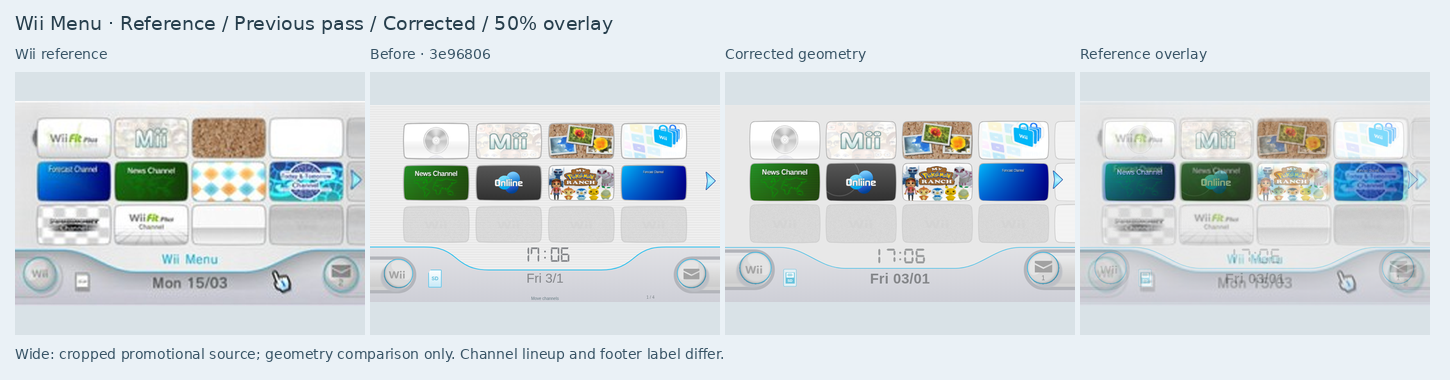
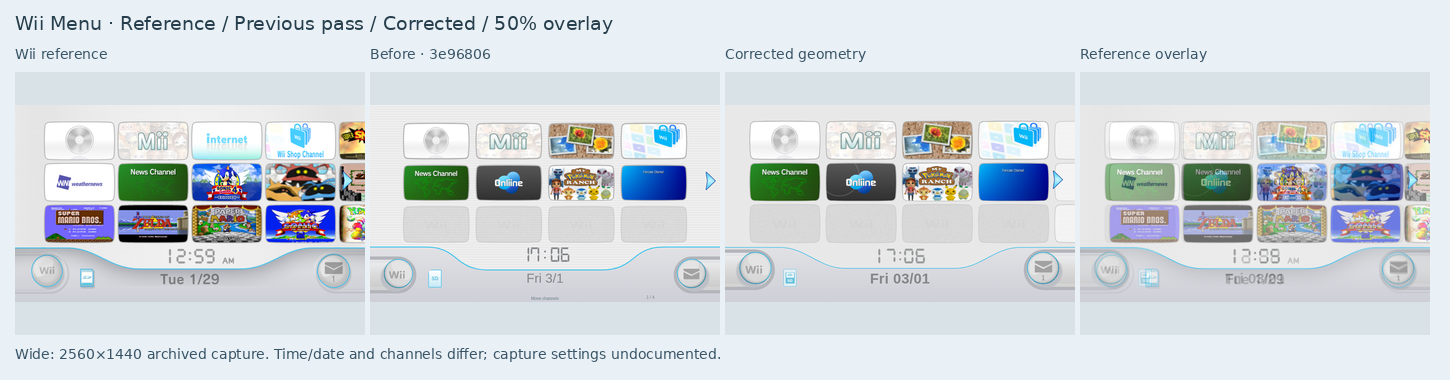
Use archived 16:9 Wii Menu screenshot for widescreen overlays

Changed region(s): [[0.0, 0.2605, 0.2793, 0.8105], [0.7448, 0.2895, 0.9931, 0.7816], [0.031, 0.8974, 0.4966, 0.9553]]

diff --git a/docs/menu-fidelity/index.html b/docs/menu-fidelity/index.html
@@ -1,7 +1,7 @@
 <!doctype html><html lang="en"><head><meta charset="utf-8"><meta name="viewport" content="width=device-width,initial-scale=1"><title>Wii menu reference alignment</title><style>
 *{box-sizing:border-box}body{margin:0;padding:24px;background:#eaf1f6;color:#243b4a;font:16px system-ui}h1{font-size:26px;margin:0 0 12px}p{line-height:1.5}header,section{max-width:1500px;margin:0 auto 20px;background:white;padding:20px;border-radius:12px}.controls{display:flex;flex-wrap:wrap;gap:18px;align-items:center}label{display:flex;gap:8px;align-items:center}select,input,button{font:inherit}select,button{padding:7px;border:1px solid #adc4d2;border-radius:5px}select{max-width:330px}.columns{display:grid;grid-template-columns:repeat(3,1fr);gap:14px}figure{margin:0}figcaption{font-weight:600;padding:8px 0}.frame{position:relative;background:#d9e2e7;aspect-ratio:4/3;overflow:hidden;display:grid;place-items:center}.frame img{display:block;width:100%;height:100%;object-fit:contain}.overlay{max-width:1050px;margin:auto}.overlay .frame img{position:absolute;inset:0}.sourceDetails{font-size:14px;color:#526b79}a{color:#086596}.note{padding:12px;background:#edf6fb;border-left:4px solid #38acd4}#result{font-weight:600}@media(max-width:800px){body{padding:8px}.columns{grid-template-columns:1fr}section,header{padding:14px}}
-</style></head><body><header><h1>Wii menu — corrected geometry</h1><p>Wii reference, preserved 3e96806 menu and corrected implementation. Compare both display modes at native 480-line sizes and 720-line captures. Sources retain their original aspect ratios.</p><div class="controls"><label>Interface <select id="interface"></select></label><label>Display <select id="mode"><option>4:3</option><option>16:9</option></select></label><label>Capture <select id="size"><option value="720">720 lines</option><option value="480">Native 480 lines</option></select></label><button id="previous">Previous</button><button id="next">Next</button></div></header><section><h2 id="title"></h2><p id="note" class="note"></p><div class="columns"><figure><figcaption>Wii reference</figcaption><div class="frame"><img id="reference" alt="Original Wii interface reference"></div></figure><figure><figcaption id="before-caption">Previous pass</figcaption><div class="frame"><img id="before" alt="Preserved previous implementation"></div></figure><figure><figcaption id="after-caption">Refined sizing</figcaption><div class="frame"><img id="after" alt="Refined implementation"></div></figure></div><p id="source" class="sourceDetails"></p></section><section class="overlay"><div class="controls"><label>Overlay <select id="layer"><option value="after">Refined vs Wii reference</option><option value="before">Previous vs Wii reference</option><option value="progress">Refined vs previous</option></select></label><label>Opacity <input id="alpha" type="range" min="0" max="100" value="50"><output id="percent">50%</output></label><label><input id="difference" type="checkbox">Difference</label></div><figure><figcaption>Aligned whole-frame overlay · preserved aspect ratios</figcaption><div class="frame"><img id="overlay-source" alt="Overlay base"><img id="overlay-image" alt="Overlay comparison"></div></figure></section><section><p id="result"></p><p>The previous pass is preserved at revision 3e96806. Before and corrected images are separate captures at the same size. The 4:3 clock/date and native icon animation phases are aligned for comparison; this does not change live playback.</p><p>The 4:3 reference is a 640×476 capture with a small crop. The widescreen source is a low-resolution promotional image. Channel lineups and date-font metrics differ; this is not an overall pixel accuracy score.</p><a href="../menu-fidelity.md">Menu correction and measured alignment report</a> · <a href="../interface-sizing/">Previous sizing pass</a> · <a href="../interface-audit/">Original audit</a></section><script>
[1 lines of base64/hex data omitted]
+</style></head><body><header><h1>Wii menu — corrected geometry</h1><p>Wii reference, preserved 3e96806 menu and corrected implementation. Compare both display modes at native 480-line sizes and 720-line captures. Sources retain their original aspect ratios.</p><div class="controls"><label>Interface <select id="interface"></select></label><label>Display <select id="mode"><option>4:3</option><option>16:9</option></select></label><label>Capture <select id="size"><option value="720">720 lines</option><option value="480">Native 480 lines</option></select></label><button id="previous">Previous</button><button id="next">Next</button></div></header><section><h2 id="title"></h2><p id="note" class="note"></p><div class="columns"><figure><figcaption>Wii reference</figcaption><div class="frame"><img id="reference" alt="Original Wii interface reference"></div></figure><figure><figcaption id="before-caption">Previous pass</figcaption><div class="frame"><img id="before" alt="Preserved previous implementation"></div></figure><figure><figcaption id="after-caption">Refined sizing</figcaption><div class="frame"><img id="after" alt="Refined implementation"></div></figure></div><p id="source" class="sourceDetails"></p></section><section class="overlay"><div class="controls"><label>Overlay <select id="layer"><option value="after">Refined vs Wii reference</option><option value="before">Previous vs Wii reference</option><option value="progress">Refined vs previous</option></select></label><label>Opacity <input id="alpha" type="range" min="0" max="100" value="50"><output id="percent">50%</output></label><label><input id="difference" type="checkbox">Difference</label></div><figure><figcaption>Aligned whole-frame overlay · preserved aspect ratios</figcaption><div class="frame"><img id="overlay-source" alt="Overlay base"><img id="overlay-image" alt="Overlay comparison"></div></figure></section><section><p id="result"></p><p>The previous pass is preserved at revision 3e96806. Before and corrected images are separate captures at the same size. The 4:3 clock/date and native icon animation phases are aligned for comparison; this does not change live playback.</p><p>The 4:3 reference is a 640×476 capture with a small crop. The widescreen reference is a 2560×1440 archived screenshot with undocumented capture settings. Time/date, channel lineups and font metrics differ; this is not an overall pixel accuracy score.</p><a href="../menu-fidelity.md">Menu correction and measured alignment report</a> · <a href="../interface-sizing/">Previous sizing pass</a> · <a href="../interface-audit/">Original audit</a></section><script>
[1 lines of base64/hex data omitted]
 for(const [id,title] of names){const option=document.createElement('option');option.value=id;option.textContent=title;sel.append(option)}
 const query=new URLSearchParams(location.search);if(names.some(n=>n[0]===query.get('interface')))sel.value=query.get('interface');if(query.get('mode')==='16:9')mode.value='16:9';if(query.get('height')==='480')size.value='480';
 function update(){const e=entries.find(e=>e.id===sel.value&&e.mode===mode.value&&e.height===Number(size.value));document.querySelector('#title').textContent=e.title+' · '+e.mode+' · '+e.width+'×'+e.height;document.querySelector('#note').textContent=e.note;const ref='../interface-audit/'+e.reference.image,before=e.baseline.image;document.querySelector('#reference').src=ref;document.querySelector('#before').src=before;document.querySelector('#after').src=e.image;document.querySelector('#overlay-source').src=layer.value==='progress'?before:ref;document.querySelector('#overlay-image').src=layer.value==='before'?before:e.image;document.querySelector('#overlay-image').style.opacity=Number(alpha.value)/100;document.querySelector('#overlay-image').style.mixBlendMode=difference.checked?'difference':'normal';document.querySelector('#percent').textContent=alpha.value+'%';document.querySelector('#before-caption').textContent='Previous pass · 3e96806';document.querySelector('#after-caption').textContent='Refined · '+e.width+'×'+e.height;document.querySelectorAll('.frame').forEach(f=>f.style.aspectRatio=e.width+'/'+e.height);const source=document.querySelector('#source');source.replaceChildren();const link=document.createElement('a');link.href=e.reference.sourceURL;link.textContent=e.reference.title+' — source';source.append(link,document.createElement('br'),e.reference.originalSize.join('×')+' source pixels. '+e.reference.notes);const latestMenu=document.querySelector('#latest-menu');if(latestMenu)latestMenu.href='../menu-fidelity/?mode='+encodeURIComponent(e.mode)+'&height='+size.value;history.replaceState(null,'','?interface='+encodeURIComponent(e.id)+'&mode='+encodeURIComponent(e.mode)+'&height='+size.value);}

diff --git a/scripts/render-menu-fidelity.py b/scripts/render-menu-fidelity.py
@@ -50,7 +50,7 @@ for filename,mode in [('menu-43-comparison','4:3'),('menu-wide-comparison','16:9
     frames.append(Image.blend(frames[0],frames[2],.5))
     for i,(title,im) in enumerate(zip(['Wii reference','Before · 3e96806','Corrected geometry','Reference overlay'],frames)):
         x=15+i*355;draw.text((x,46),title,font=small,fill='#385466');canvas.paste(im,(x,72))
-    note='4:3: time/date and icon phases aligned. Installed channels differ.' if mode=='4:3' else 'Wide: cropped promotional source; geometry comparison only. Channel lineup and footer label differ.'
+    note='4:3: time/date and icon phases aligned. Installed channels differ.' if mode=='4:3' else 'Wide: 2560×1440 archived capture. Time/date and channels differ; capture settings undocumented.'
     draw.text((15,346),note,font=small,fill='#385466')
     canvas.save(out/(filename+'.png'),optimize=True)
 print(json.dumps(measures))

diff --git a/docs/menu-fidelity.md b/docs/menu-fidelity.md
@@ -90,8 +90,21 @@ not counted as shell geometry failures. Source capture filtering and date-font
 shapes still differ. Empty-slot texture and some icon details need a separate
 asset/renderer comparison.
 
-The widescreen source is a small, cropped promotional screenshot with a different
-footer label. It supports grid coverage and proportions, not strict pixel scoring.
-Precise widescreen pixel fidelity remains unverified. Full applications and
+The widescreen comparison now uses a **2560×1440, exact 16:9 screenshot** from
+[Super Mario Wiki's file history](https://www.mariowiki.com/File:Wii_Systemmenu.png#filehistory),
+replacing the 256×150 promotional reference in this viewer. The original image is
+retained without cropping or stretching, and its URL, dimensions and SHA-256 are
+recorded in the [source manifest](interface-audit/references.json). SWFlash uploaded
+it on 28 January 2013; DogsRNice losslessly optimized it on 18 November 2017. The
+two archived PNGs decode to identical pixels.
+
+This source includes the clock, date, SD shortcut, message count and adjacent
+channel column. Its clock reads **12:59 AM / Tue 1/29**, whereas the preserved
+browser fixture reads **17:06 / Fri 03/01**. Channel inventory and icon animation
+phases also differ. Hardware/emulator, internal rendering resolution and filtering
+are undocumented; a larger file does not establish more native texture detail.
+Use the overlay to inspect proportions and font shapes, accounting for these state
+differences. Precise widescreen pixel fidelity remains unverified. The earlier
+Nintendo source remains in the audit catalog. Full applications and
 hardware/service behavior retain the existing boundaries in the
 [implementation report](interface-improvements.md).
